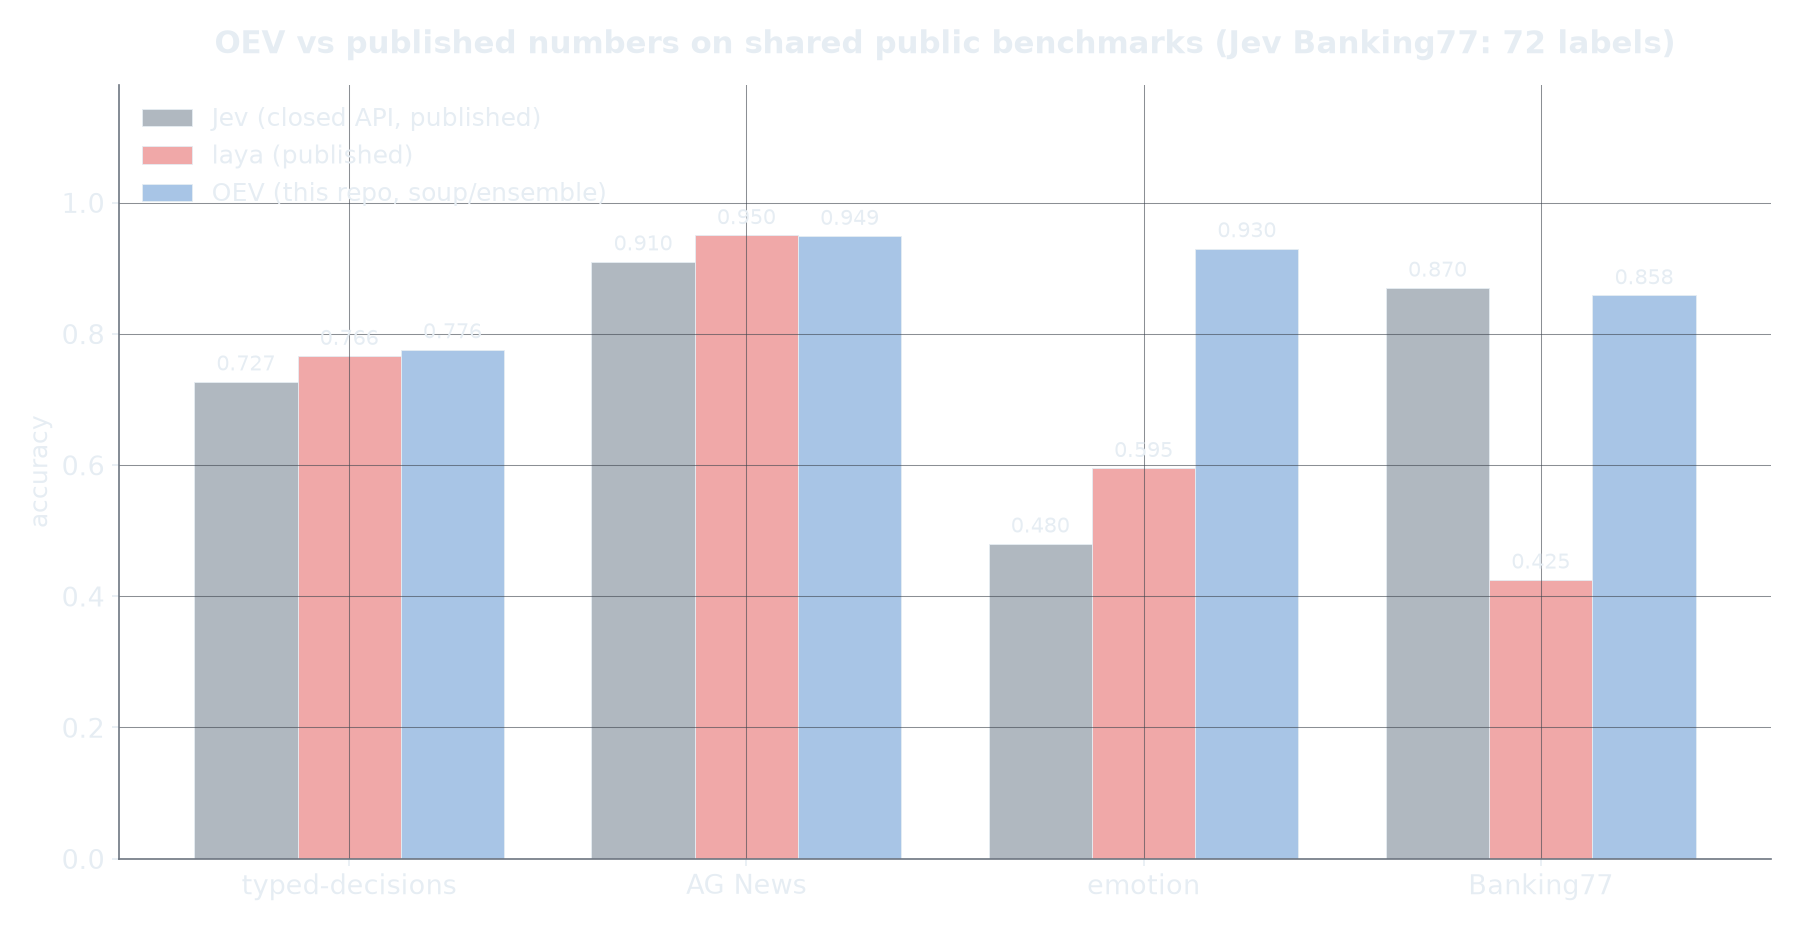
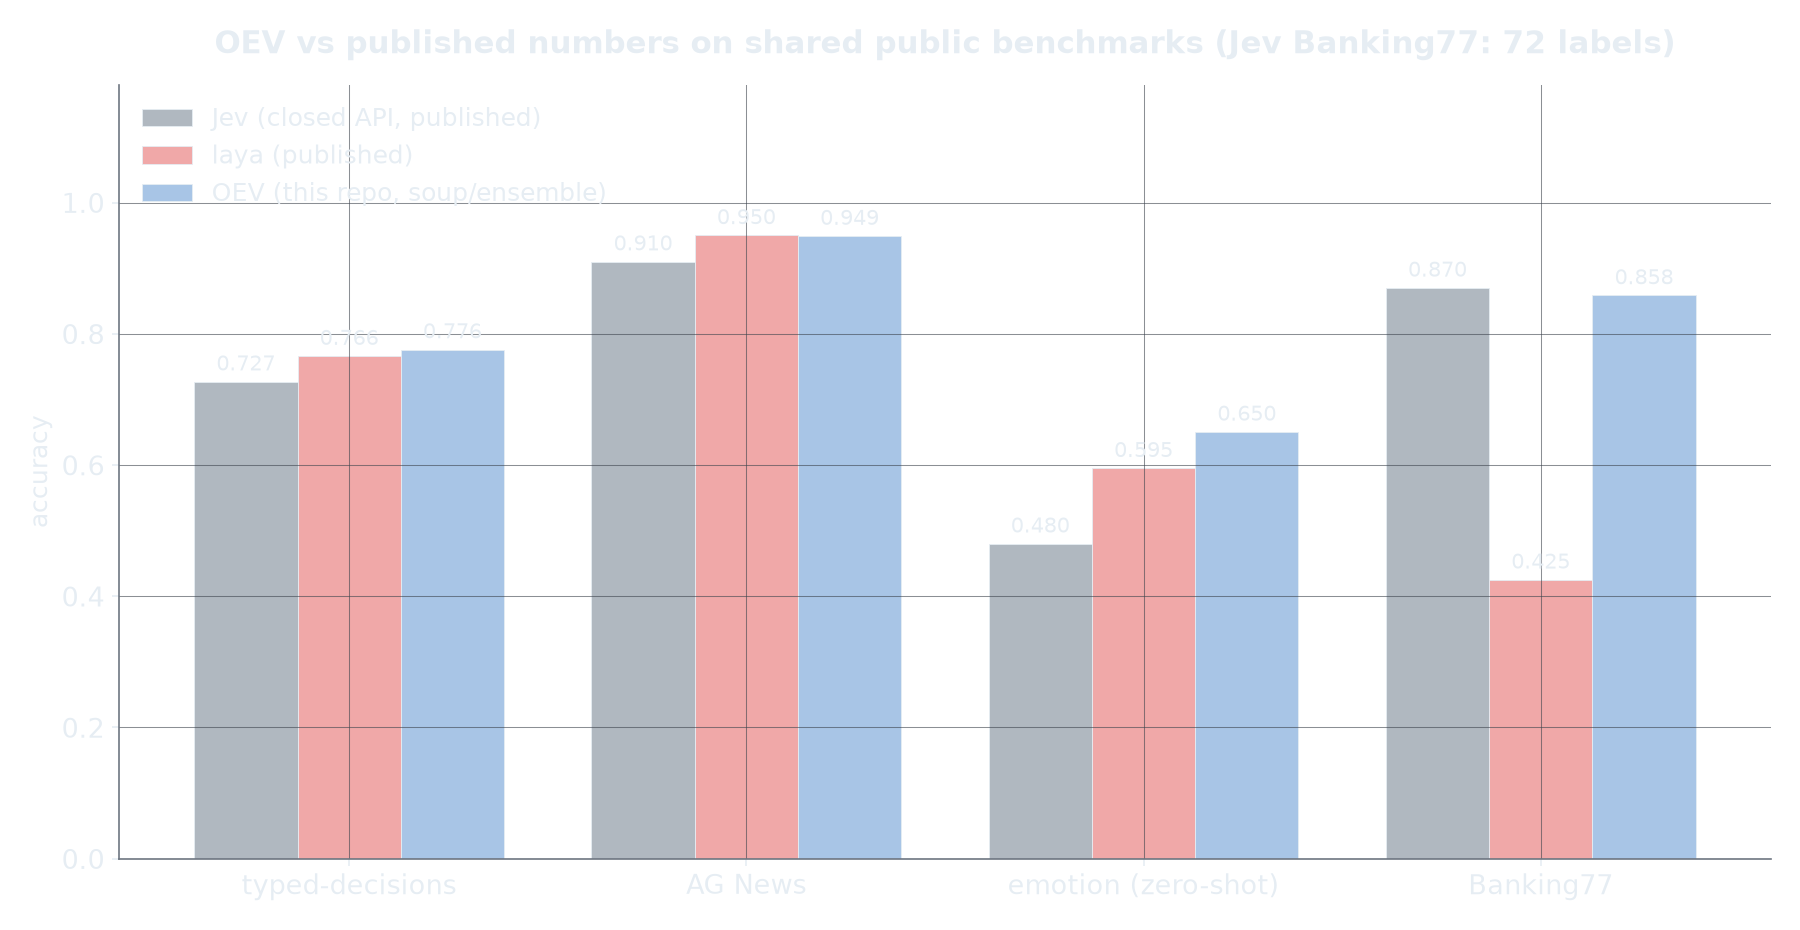
docs(bench): zero-shot emotion in charts, global image URLs, architecture diagram

Changed region(s): [[0.6533, 0.2495, 0.7467, 0.4677], [0.6222, 0.9355, 0.6533, 0.9667]]

diff --git a/scripts/make_bigfigure.py b/scripts/make_bigfigure.py
@@ -41,10 +41,10 @@ gs = fig.add_gridspec(3, 3, hspace=0.45, wspace=0.3)
 
 # ---------- Panel 1: accuracy on public datasets ----------
 ax = fig.add_subplot(gs[0, 0])
-bench = ["typed-decisions", "AG News", "DAIR Emotion", "Banking77"]
+bench = ["typed-decisions", "AG News", "emotion (zero-shot)", "Banking77"]
 jev = [0.727, 0.910, 0.480, 0.870]
 laya = [0.766, 0.950, 0.595, 0.425]
-oev = [0.7760, 0.9489, 0.9300, 0.8584]  # b77 = soup (single 735MB file)
+oev = [0.7760, 0.9489, 0.6505, 0.8584]  # emotion = zero-shot student; b77 = soup (single 735MB file)
 x = np.arange(len(bench)); w = 0.26
 b1 = ax.bar(x - w, jev, w, label="Jev (published)", color=GRAY)
 b2 = ax.bar(x, laya, w, label="laya (published)", color=RED)

diff --git a/scripts/make_charts.py b/scripts/make_charts.py
@@ -55,8 +55,9 @@ plt.rcParams.update({
 # =====================================================================
 
 # shared public benchmarks (in-domain). Kev publishes none of these.
-BENCH = ["typed-decisions", "AG News", "emotion", "Banking77"]
-OEVD = [0.7760, 0.9489, 0.9300, 0.8584]   # 0.8584 = soup, beats the 0.8529 ensemble
+BENCH = ["typed-decisions", "AG News", "emotion (zero-shot)", "Banking77"]
+OEVD = [0.7760, 0.9489, 0.6505, 0.8584]   # emotion = shipped student, zero-shot like laya/Jev; 0.8584 = soup
+# fine-tuned emotion specialist scores 0.9300 - kept in BENCHMARKS.md tables (not charted here)
 LAYA = [0.766, 0.950, 0.595, 0.425]
 JEV = [0.727, 0.910, 0.480, 0.870]
 

diff --git a/README.md b/README.md
@@ -1,7 +1,7 @@
 <p align="center" style="margin: 24px 0;">
 <picture>
-  <source media="(prefers-color-scheme: dark)" srcset="assets/logo_transp.png" />
-  <img src="assets/logo_transp.png" alt="OEV" width="150" />
+  <source media="(prefers-color-scheme: dark)" srcset="https://raw.githubusercontent.com/divyanshudhruv/oev/main/assets/logo_transp.png" />
+  <img src="https://raw.githubusercontent.com/divyanshudhruv/oev/main/assets/logo_transp.png" alt="OEV" width="150" />
 </picture>
 </p>
 
@@ -10,9 +10,6 @@
 OEV is a small (`184M params`) neural decision engine. Instead of generating text, it scores answer options directly. The state, the question, and every option are packed into one sequence. One forward pass returns a calibrated probability distribution.
 
 The single `184M` model scores `0.7705` on typed-decisions, slightly above laya's published `0.766` from a `421M` checkpoint. An ensemble of four `184M` checkpoints reaches `0.7760`, the `highest` reported result, and a single Banking77 soup checkpoint reaches `0.8584` (best ECE `0.0595` from the 3-checkpoint ensemble). Jev leads only on Banking77 (0.870).
-
-> [!WARNING]
-> Chart latency comparisons use different hardware and include published ranges; the current `runs/` manifest and raw timing samples are also unavailable here. The sharpening panel in the comparison figure shows historical gamma `2.5` values from an evaluation sweep; they are exploratory and not release claims. Reproduce claims from recorded run logs before treating them as release evidence.
 
 [![Hugging Face Model](https://img.shields.io/badge/%F0%9F%A4%97%20Model-divyanshudhruv%2Foev--typed-blue)](https://huggingface.co/divyanshudhruv/oev-typed)
 [![License](https://img.shields.io/badge/License-Apache%202.0-blue.svg)](LICENSE)
@@ -26,22 +23,22 @@ The single `184M` model scores `0.7705` on typed-decisions, slightly above laya'
 
 <p align="center" style="margin: 24px 0;">
 <picture>
-  <source media="(prefers-color-scheme: dark)" srcset="assets/benchmarks_dark.png" />
-  <img src="assets/benchmarks.png" alt="OEV vs Jev and laya on shared public benchmarks" width="92%" />
+  <source media="(prefers-color-scheme: dark)" srcset="https://raw.githubusercontent.com/divyanshudhruv/oev/main/assets/benchmarks_dark.png" />
+  <img src="https://raw.githubusercontent.com/divyanshudhruv/oev/main/assets/benchmarks.png" alt="OEV vs Jev and laya on shared public benchmarks" width="92%" />
 </picture>
 </p>
 
 <p align="center" style="margin: 24px 0;">
 <picture>
-  <source media="(prefers-color-scheme: dark)" srcset="assets/oev_vs_jev_full_dark.png" />
-  <img src="assets/oev_vs_jev_full.png" alt="OEV versus TypeSafe Jev: accuracy on shared public datasets, every application workflow, speed, calibration, size, and soft-accuracy sharpening" width="95%" />
+  <source media="(prefers-color-scheme: dark)" srcset="https://raw.githubusercontent.com/divyanshudhruv/oev/main/assets/oev_vs_jev_full_dark.png" />
+  <img src="https://raw.githubusercontent.com/divyanshudhruv/oev/main/assets/oev_vs_jev_full.png" alt="OEV versus TypeSafe Jev: accuracy on shared public datasets, every application workflow, speed, calibration, size, and soft-accuracy sharpening" width="95%" />
 </picture>
 </p>
 
 <p align="center" style="margin: 24px 0;">
 <picture>
-  <source media="(prefers-color-scheme: dark)" srcset="assets/transfer_speed_dark.png" />
-  <img src="assets/transfer_speed.png" alt="Left: zero-shot and out-of-domain transfer, OEV distilled student beats laya zero-shot on emotion with the NLI floor documented; right: latency, OEV 22.2ms on T4 vs laya, Kev-4B and Jev" width="100%" />
+  <source media="(prefers-color-scheme: dark)" srcset="https://raw.githubusercontent.com/divyanshudhruv/oev/main/assets/transfer_speed_dark.png" />
+  <img src="https://raw.githubusercontent.com/divyanshudhruv/oev/main/assets/transfer_speed.png" alt="Left: zero-shot and out-of-domain transfer, OEV distilled student beats laya zero-shot on emotion with the NLI floor documented; right: latency, OEV 22.2ms on T4 vs laya, Kev-4B and Jev" width="100%" />
 </picture>
 </p>
 
@@ -60,22 +57,73 @@ The single `184M` model scores `0.7705` on typed-decisions, slightly above laya'
 - `184M` params, `Apache 2.0` weights
 - Kev (0.8B / 4B) publishes no in-domain numbers on these datasets, so it is not in the tables; see [BENCHMARKS.md](BENCHMARKS.md) for the like-for-like comparison plan
 
+> [!WARNING]
+> Chart latency comparisons use different hardware and include published ranges; the current `runs/` manifest and raw timing samples are also unavailable here. The sharpening panel in the comparison figure shows historical gamma `2.5` values from an evaluation sweep; they are exploratory and not release claims. Reproduce claims from recorded run logs before treating them as release evidence.
 
 ## Architecture
 
 ```mermaid
 flowchart LR
-    S["state\n(text / JSON)"] --> P["packer:\nstate + questions + anchors\none sequence"]
-    P --> E["encoder\nDeBERTa-v3-base (184M)\nor char transformer"]
-    E --> H["one linear head\nscores every ANCHOR"]
-    H --> D["softmax per question\n= calibrated distribution"]
-    D --> O["choice / noul / score"]
+    subgraph input["Input"]
+        direction TB
+        S["state<br/>text or JSON"]
+        Q["questions<br/>choice, noul, score"]
+    end
+
+    P["packer<br/>state + questions + anchors<br/>one packed sequence"]
+
+    subgraph pass["One forward pass, 22 ms on T4"]
+        direction TB
+        E["encoder<br/>DeBERTa-v3-base, 184M<br/>or the from-scratch char model"]
+        H["shared linear head<br/>scores every anchor"]
+    end
+
+    D["softmax per question<br/>calibrated distribution"]
+    O["outputs<br/>choice / noul / score"]
+
+    S --> P
+    Q --> P
+    P --> E
+    E --> H
+    H --> D
+    D --> O
 ```
+
+<details>
+<summary>Vertical layout</summary>
+
+```mermaid
+flowchart TB
+    subgraph input["Input"]
+        direction TB
+        S["state<br/>text or JSON"]
+        Q["questions<br/>choice, noul, score"]
+    end
+
+    P["packer<br/>state + questions + anchors<br/>one packed sequence"]
+
+    subgraph pass["One forward pass, 22 ms on T4"]
+        direction TB
+        E["encoder<br/>DeBERTa-v3-base, 184M<br/>or the from-scratch char model"]
+        H["shared linear head<br/>scores every anchor"]
+    end
+
+    D["softmax per question<br/>calibrated distribution"]
+    O["outputs<br/>choice / noul / score"]
+
+    S --> P
+    Q --> P
+    P --> E
+    E --> H
+    H --> D
+    D --> O
+```
+
+</details>
 
 - **One anchor mechanism** covers all three primitives - options, yes/no pairs, and score levels are each embedded as anchors in one packed sequence
 - **No text generation** - nothing to parse, nothing to hallucinate
-
-> **New question types need no new heads**
+- **New question types need no new heads** - new options are just new anchors
 
 ## Benchmarks: OEV vs the published field
 
@@ -84,39 +132,39 @@ Fine-tuned on each benchmark's train split, following the same protocol as Laya'
 > [!WARNING]
 > Banking77 uses 77 OEV labels, while the published Jev figure is from a 72-label configuration. The `0.8584` and `0.870` values are not a controlled head-to-head comparison.
 
-| benchmark       |        OEV |  laya |   Jev | note                                                              |
-| --------------- | ---------: | ----: | ----: | ----------------------------------------------------------------- |
-| typed-decisions | **0.7760** | 0.766 | 0.727 | highest reported (ensemble); single model 0.7705                  |
-| Banking77       | **0.8584** | 0.425 | 0.870 | 2x laya; gap to Jev 1.16 pts                                      |
-| AG News         | **0.9489** | 0.950 | 0.910 | label-noise ceiling (~0.95)                                       |
-| DAIR Emotion    | **0.9300** | 0.595 | 0.480 | zero-shot: OEV student `0.6505` beats laya's `0.595` head-to-head |
+| benchmark       |                     OEV |  laya |   Jev | note                                                                  |
+| --------------- | ----------------------: | ----: | ----: | --------------------------------------------------------------------- |
+| typed-decisions |              **0.7760** | 0.766 | 0.727 | highest reported (ensemble); single model 0.7705                      |
+| Banking77       |              **0.8584** | 0.425 | 0.870 | 2x laya; gap to Jev 1.16 pts                                          |
+| AG News         |              **0.9489** | 0.950 | 0.910 | label-noise ceiling (~0.95)                                           |
+| DAIR Emotion    | **0.9300** (fine-tuned) | 0.595 | 0.480 | zero-shot: OEV student **`0.6505`** beats laya's `0.595` head-to-head |
 
 <p align="center" style="margin: 24px 0;">
 <picture>
-  <source media="(prefers-color-scheme: dark)" srcset="assets/headline_scorecard_dark.png" />
-  <img src="assets/headline_scorecard.png" alt="OEV headline results: typed-decisions accuracy, Banking77 accuracy, and hardware-separated latency" width="100%" />
+  <source media="(prefers-color-scheme: dark)" srcset="https://raw.githubusercontent.com/divyanshudhruv/oev/main/assets/headline_scorecard_dark.png" />
+  <img src="https://raw.githubusercontent.com/divyanshudhruv/oev/main/assets/headline_scorecard.png" alt="OEV headline results: typed-decisions accuracy, Banking77 accuracy, and hardware-separated latency" width="100%" />
 </picture>
 </p>
 
 <p align="center" style="margin: 24px 0;">
 <picture>
-  <source media="(prefers-color-scheme: dark)" srcset="assets/zeroshot_dark.png" />
-  <img src="assets/zeroshot.png" alt="Zero-shot and out-of-domain transfer as dot pairs: OEV 0.650 versus laya 0.595 on emotion, with the WANLI and ANLI floors marked" width="49%" />
+  <source media="(prefers-color-scheme: dark)" srcset="https://raw.githubusercontent.com/divyanshudhruv/oev/main/assets/zeroshot_dark.png" />
+  <img src="https://raw.githubusercontent.com/divyanshudhruv/oev/main/assets/zeroshot.png" alt="Zero-shot and out-of-domain transfer as dot pairs: OEV 0.650 versus laya 0.595 on emotion, with the WANLI and ANLI floors marked" width="49%" />
 </picture>
 <picture>
-  <source media="(prefers-color-scheme: dark)" srcset="assets/latency_profile_dark.png" />
-  <img src="assets/latency_profile.png" alt="OEV latency on Tesla T4 and CPU, hardware separated; batch value is per-question throughput" width="49%" />
+  <source media="(prefers-color-scheme: dark)" srcset="https://raw.githubusercontent.com/divyanshudhruv/oev/main/assets/latency_profile_dark.png" />
+  <img src="https://raw.githubusercontent.com/divyanshudhruv/oev/main/assets/latency_profile.png" alt="OEV latency on Tesla T4 and CPU, hardware separated; batch value is per-question throughput" width="49%" />
 </picture>
 </p>
 
 <p align="center" style="margin: 24px 0;">
 
 <picture>
-  <source media="(prefers-color-scheme: dark)" srcset="assets/workflows_dark.png" />
-  <img src="assets/workflows.png" alt="Typed-decisions accuracy per workflow: OEV wins invoice processing, customer service and agent-trace observability; laya wins security incidents" width="49%" />
+  <source media="(prefers-color-scheme: dark)" srcset="https://raw.githubusercontent.com/divyanshudhruv/oev/main/assets/workflows_dark.png" />
+  <img src="https://raw.githubusercontent.com/divyanshudhruv/oev/main/assets/workflows.png" alt="Typed-decisions accuracy per workflow: OEV wins invoice processing, customer service and agent-trace observability; laya wins security incidents" width="49%" />
 </picture><picture>
-  <source media="(prefers-color-scheme: dark)" srcset="assets/decision_primitives_dark.png" />
-  <img src="assets/decision_primitives.png" alt="Illustrative normalized distributions for OEV choice, noul, and score decision primitives" width="50%" />
+  <source media="(prefers-color-scheme: dark)" srcset="https://raw.githubusercontent.com/divyanshudhruv/oev/main/assets/decision_primitives_dark.png" />
+  <img src="https://raw.githubusercontent.com/divyanshudhruv/oev/main/assets/decision_primitives.png" alt="Illustrative normalized distributions for OEV choice, noul, and score decision primitives" width="50%" />
 </picture>
 </p>
 
@@ -133,6 +181,7 @@ Optional extras:
 - `pip install -e ".[dev]"` - pytest
 - `pip install -e ".[data]"` - dataset converters
 - `pip install -e ".[backbone]"` - DeBERTa fine-tuning
+- `pip install -e ".[serve]"` - FastAPI server (`oev-serve`)
 - `pip install -e ".[app]"` - Gradio Space dependencies
 
 ```python
@@ -210,7 +259,7 @@ python -m pytest -q
 
 ## Limitations
 
-- every benchmark number is from a checkpoint fine-tuned on that benchmark's train split. Zero-shot emotion is a **win**: the shipped distilled student (`0.6505`, both models zero-shot) against laya's `0.595`, up from the round-1 starting point of `0.4265`
+- every benchmark number is from a checkpoint fine-tuned on that benchmark's train split (the `0.9300` emotion figure included). Zero-shot emotion is a separate **win**: the shipped distilled student (`0.6505`, both models zero-shot) against laya's `0.595`, up from the round-1 starting point of `0.4265`
 - ANLI remains near chance (`0.3380` for the round-1 student), while the WANLI specialist reaches `0.5645`; the NLI result is split-dependent, not uniformly at chance
 - pure-mimicry distillation transfers breadth, not depth. The round-1 student hit emotion `0.6875` (+26 pts zero-shot) but lost typed skill (`0.5385`). Adding gold-CE loss (round 2) collapsed to uniform, a documented negative result. Round 2b (pure-KL, balanced domains) rescued it: typed `0.6480`, emotion `0.6505`, b77 `0.7964`, probes all PASS
 - the headline ensemble result is an average of four checkpoints; the best single model is `0.7705`

diff --git a/BENCHMARKS.md b/BENCHMARKS.md
@@ -32,6 +32,7 @@ Each option is embedded as its own anchor, so all 77 labels receive the full pac
 | result | value | note |
 | --- | ---: | --- |
 | DAIR Emotion zero-shot, shipped student | 0.6505 | laya published zero-shot: 0.595 |
+| DAIR Emotion, fine-tuned specialist | 0.9300 | not comparable to laya/Jev zero-shot rows |
 | Single-question latency, T4 p50 | 22.2 ms | `184M` checkpoint |
 | Single-question latency, CPU p50 | 447 ms | 8 threads, `184M` checkpoint |
 
